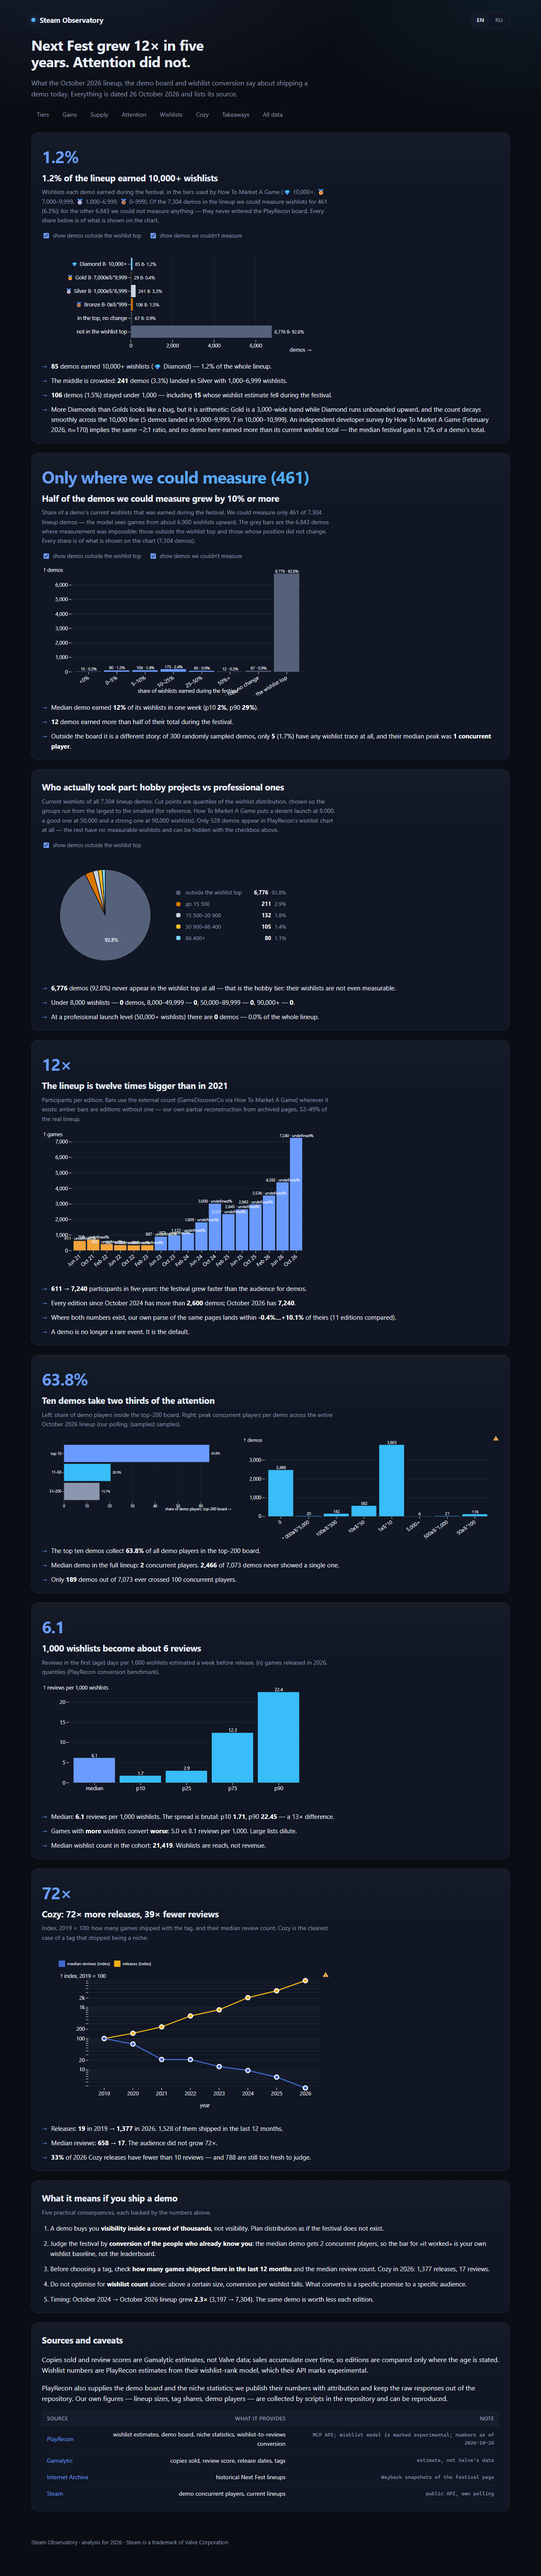
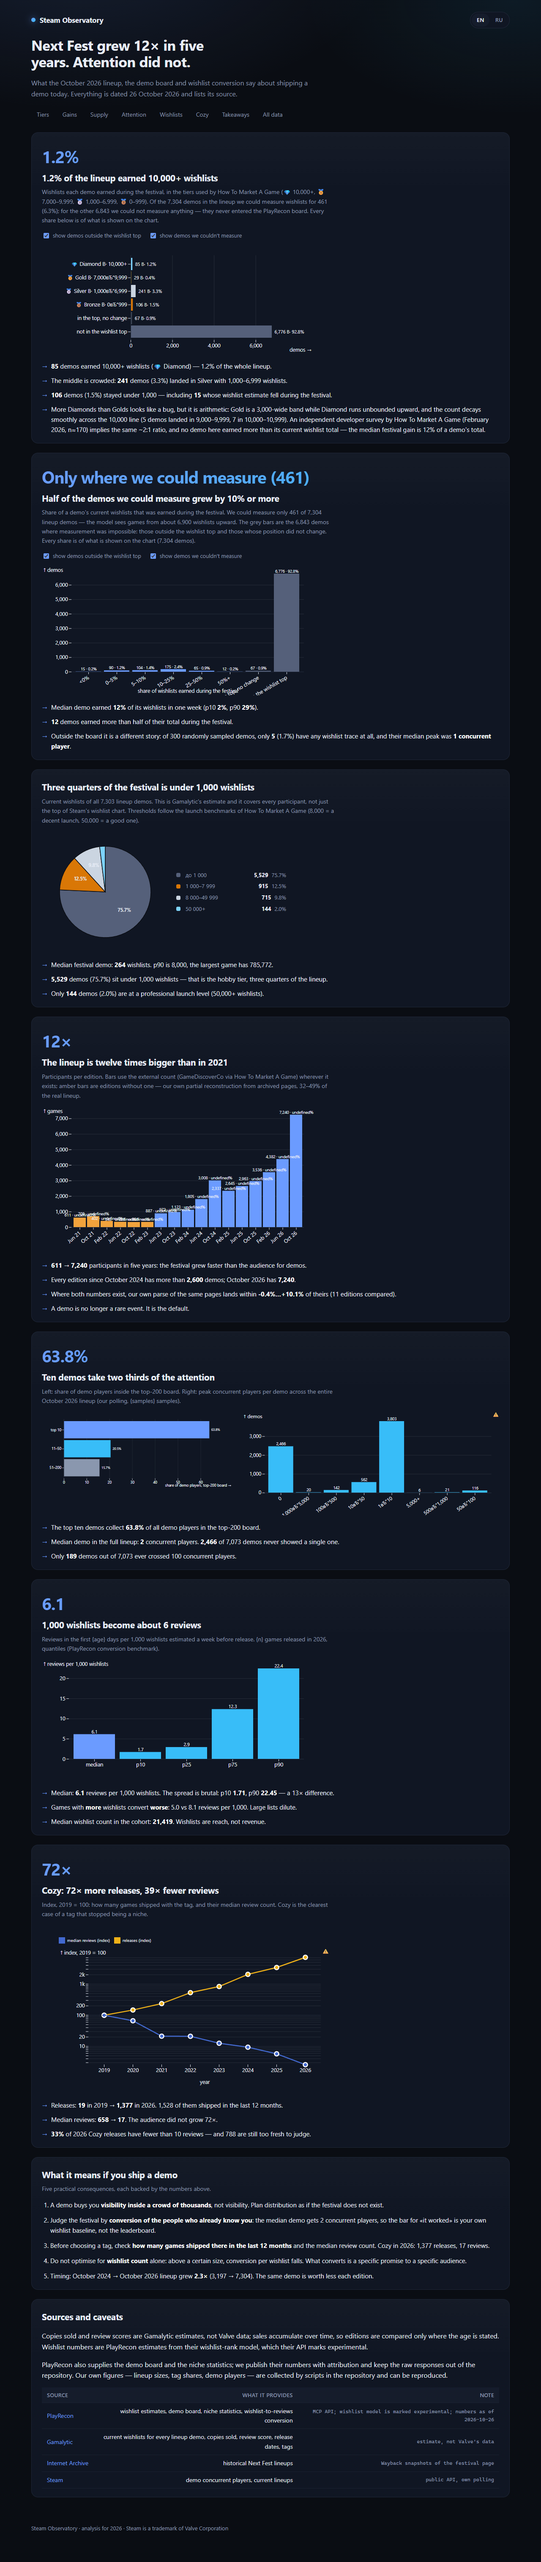
Пай-чарт на данных Gamalytic: весь состав фестиваля, четыре группы
- build_story_data: текущие вишлисты всех 7303 демо из Gamalytic, пороги бенчмарка запуска
- результат: 5529 до 1000 / 915 / 715 / 144 в 50k+, медиана 264, максимум 785772
- story: убрана галочка «вне топа» (больше нет категории без данных), новая подпись и выводы
- атрибуция: Gamalytic указан как источник текущих вишлистов
- validate_story: 0 падений, 0 ошибок в консоли

diff --git a/site/story-i18n.js b/site/story-i18n.js
@@ -31,17 +31,12 @@ export const S = {
     gains_b1: "Median demo earned <b>{median}%</b> of its wishlists in one week (p10 <b>{p10}%</b>, p90 <b>{p90}%</b>).",
     gains_b2: "<b>{over_half}</b> demos earned more than half of their total during the festival.",
     gains_b3: "Outside the board it is a different story: of {sampled} randomly sampled demos, only <b>{with_rank}</b> ({trace}%) have any wishlist trace at all, and their median peak was <b>{median} concurrent player</b>.",
-    wl_title: "Who actually took part: hobby projects vs professional ones",
+    wl_title: "Three quarters of the festival is under 1,000 wishlists",
     wl_hint:
-      "Current wishlists of all {total} lineup demos. Cut points are quantiles of the wishlist distribution, chosen so the groups run from the largest to the smallest (for reference, How To Market A Game puts a decent launch at 8,000, a good one at 50,000 and a strong one at 90,000 wishlists). Only {in_chart} demos appear in PlayRecon's wishlist chart at all — the rest have no measurable wishlists and can be hidden with the checkbox above.",
-    wl_no_rank: "outside the wishlist top",
-    wl_in_under8k: "🥉 in the top, under 8,000",
-    wl_in_8k_50k: "🥈 8,000–49,999",
-    wl_in_50k_90k: "🥇 50,000–89,999",
-    wl_in_90k_plus: "💎 90,000+",
-    wl_b1: "<b>{n}</b> demos ({share}%) never appear in the wishlist top at all — that is the hobby tier: their wishlists are not even measurable.",
-    wl_b2: "Under 8,000 wishlists — <b>{u8}</b> demos, 8,000–49,999 — <b>{mid}</b>, 50,000–89,999 — <b>{gold}</b>, 90,000+ — <b>{pro}</b>.",
-    wl_b3: "At a professional launch level (50,000+ wishlists) there are <b>{pro}</b> demos — {pro_share}% of the whole lineup.",
+      "Current wishlists of all {total} lineup demos. This is Gamalytic's estimate and it covers every participant, not just the top of Steam's wishlist chart. Thresholds follow the launch benchmarks of How To Market A Game (8,000 = a decent launch, 50,000 = a good one).",
+    wl_b1: "Median festival demo: <b>{median}</b> wishlists. p90 is {p90}, the largest game has {max}.",
+    wl_b2: "<b>{n}</b> demos ({share}%) sit under 1,000 wishlists — that is the hobby tier, three quarters of the lineup.",
+    wl_b3: "Only <b>{pro}</b> demos ({pro_share}%) are at a professional launch level (50,000+ wishlists).",
     wl_axis: "demos",
     tiers_kicker: "{share}%",
     tiers_b1: "<b>{diamond}</b> demos earned 10,000+ wishlists (💎 Diamond) — {diamond_share}% of the whole lineup.",
@@ -151,17 +146,12 @@ export const S = {
     gains_b1: "Медианное демо набрало за неделю <b>{median}%</b> своих вишлистов (p10 <b>{p10}%</b>, p90 <b>{p90}%</b>).",
     gains_b2: "<b>{over_half}</b> демо набрали за фестиваль больше половины своего итога.",
     gains_b3: "Вне борда картина другая: из {sampled} случайно отобранных демо вишлист-след есть только у <b>{with_rank}</b> ({trace}%), а медианный пик у них — <b>{median} одновременный игрок</b>.",
-    wl_title: "Кто вообще участвовал: любители против профессионалов",
+    wl_title: "Три четверти фестиваля — меньше 1 000 вишлистов",
     wl_hint:
-      "Текущие вишлисты всех {total} демо состава. Точки отсечения — квантили распределения, подобранные так, чтобы группы шли от большего к меньшему (для ориентира: How To Market A Game считает 8 000 вишлистов нормальным запуском, 50 000 — хорошим, 90 000 — сильным). В таблице вишлистов PlayRecon есть только {in_chart} демо — у остальных вишлисты не измеряются, и их можно скрыть галочкой выше.",
-    wl_no_rank: "вне топа вишлистов",
-    wl_in_under8k: "🥉 в топе, до 8 000",
-    wl_in_8k_50k: "🥈 8 000–49 999",
-    wl_in_50k_90k: "🥇 50 000–89 999",
-    wl_in_90k_plus: "💎 90 000+",
-    wl_b1: "<b>{n}</b> демо ({share}%) вообще не попадают в топ вишлистов — это и есть любительский уровень: их вишлисты даже не измеряются.",
-    wl_b2: "До 8 000 вишлистов — <b>{u8}</b> демо, 8 000–49 999 — <b>{mid}</b>, 50 000–89 999 — <b>{gold}</b>, 90 000+ — <b>{pro}</b>.",
-    wl_b3: "На профессиональном уровне запуска (50 000+ вишлистов) — <b>{pro}</b> демо, это {pro_share}% всего состава.",
+      "Текущие вишлисты всех {total} демо состава. Это оценка Gamalytic, и она покрывает всех участников, а не только верхушку топа вишлистов Steam. Пороги — бенчмарк запуска How To Market A Game (8 000 — нормальный запуск, 50 000 — хороший).",
+    wl_b1: "Медианное демо фестиваля: <b>{median}</b> вишлистов. p90 — {p90}, у самой крупной игры {max}.",
+    wl_b2: "<b>{n}</b> демо ({share}%) имеют меньше 1 000 вишлистов — это любительский уровень, три четверти состава.",
+    wl_b3: "На профессиональном уровне запуска (50 000+) — всего <b>{pro}</b> демо ({pro_share}%).",
     wl_axis: "демо",
     tiers_kicker: "{share}%",
     tiers_b1: "<b>{diamond}</b> демо набрали 10 000+ вишлистов (💎 Diamond) — это {diamond_share}% от всего состава.",

diff --git a/site/story.js b/site/story.js
@@ -481,11 +481,10 @@ function renderGains() {
 // --- 1c. РЎ РєР°РєРёРјРё РІРёС€Р»РёСЃС‚Р°РјРё РІС…РѕРґРёР»Рё Рё РІС‹С…РѕРґРёР»Рё -------------------------
 // цвета долей: серый — вне топа, дальше бронза/серебро/золото/бриллиант
 const WL_COLORS = {
-  no_rank: "#55607a",
-  in_b0: "#d97706",
-  in_b1: "#cbd5e1",
-  in_b2: "#fbbf24",
-  in_b3: "#7dd3fc",
+  b0: "#55607a",
+  b1: "#d97706",
+  b2: "#cbd5e1",
+  b3: "#7dd3fc",
 };
 
 function renderWl() {
@@ -493,8 +492,8 @@ function renderWl() {
   const data = b.wl_now;
   if (!data || !data.buckets) return;
   const total = data.total || data.buckets.reduce((sum, r) => sum + r.games, 0);
-  // «вне топа» можно скрыть той же галочкой, что и в графике тиров
-  const shown = data.buckets.filter((r) => r.key !== "no_rank" || showNoRank);
+  // Gamalytic видит все игры состава, поэтому скрывать тут нечего
+  const shown = data.buckets;
   const shownTotal = shown.reduce((sum, r) => sum + r.games, 0) || 1;
   const rows = shown.map((r) => ({
     key: r.key,
@@ -563,16 +562,15 @@ function renderWl() {
       .join(" · ");
   }
   const pick = (key) => rows.find((r) => r.key === key) || { games: 0, share: 0 };
-  const pro = pick("in_50k_90k").games + pick("in_90k_plus").games;
+  const pro = pick("b3").games;
   el("#take-wl").innerHTML = [
-    t("wl_b1", { n: fmt(pick("no_rank").games), share: pick("no_rank").share.toFixed(1) }),
-    t("wl_b2", {
-      u8: fmt(pick("in_under8k").games),
-      mid: fmt(pick("in_8k_50k").games),
-      gold: fmt(pick("in_50k_90k").games),
-      pro: fmt(pick("in_90k_plus").games),
+    t("wl_b1", {
+      median: fmt(data.median),
+      p90: fmt(data.p90),
+      max: fmt(data.max),
     }),
-    t("wl_b3", { pro: fmt(pro), pro_share: ((100 * pro) / total).toFixed(1) }),
+    t("wl_b2", { n: fmt(pick("b0").games), share: pick("b0").share.toFixed(1) }),
+    t("wl_b3", { pro: fmt(pro), pro_share: ((100 * pro) / shownTotal).toFixed(1) }),
   ]
     .map((x) => `<li>${x}</li>`)
     .join("");

diff --git a/site/story.html b/site/story.html
@@ -57,9 +57,6 @@
   <section id="wl">
     <h2 data-i18n="wl_title"></h2>
     <p class="hint" id="hint-wl"></p>
-    <div class="toggles" id="wl-toggles">
-      <label><input type="checkbox" id="show-no-rank-3" data-toggle="no-rank" checked> <span data-i18n="toggle_no_rank"></span></label>
-    </div>
     <div id="chart-wl" class="chart"><div class="skel skel-chart-sm"></div></div>
     <ul class="takeaways" id="take-wl"></ul>
   </section>

diff --git a/scripts/build_story_data.py b/scripts/build_story_data.py
@@ -236,57 +236,42 @@ if tiers_block is not None:
 # 🥉 5 000, 🥈 8 000, 🥇 50 000, 💎 90 000 вишлистов к запуску).
 # Первый бакет — те, кого вообще нет в топе вишлистов: их уровень неизвестен,
 # но именно они и есть любительская часть фестиваля.
+# Текущие вишлисты по всему составу — из Gamalytic (публичный эндпоинт, все игры).
+# Пороги — бенчмарк запуска How To Market A Game (1 000 / 8 000 / 50 000).
+# Последние две группы объединены в «50 000+», чтобы размеры шли по убыванию.
 wl_now = None
-try:
-    spec = importlib.util.spec_from_file_location(
-        "prwg", ROOT / "scripts" / "playrecon_wishlist_gain.py"
-    )
-    mod = importlib.util.module_from_spec(spec)
-    spec.loader.exec_module(mod)
-    board_rows = [r for r in mod.load_rows() if r.get("wl_est")]
+gam_file = CACHE / "gamalytic_wishlists.jsonl"
+if gam_file.exists():
+    gvals: list[int] = []
+    for line in gam_file.read_text(encoding="utf-8").splitlines():
+        if not line.strip():
+            continue
+        try:
+            rec = json.loads(line)
+        except json.JSONDecodeError:
+            continue
+        if rec.get("wishlists"):
+            gvals.append(int(rec["wishlists"]))
+    gvals.sort()
 
-    ests = sorted(r["wl_est"] for r in board_rows)
-    n_est = len(ests)
+    def gcnt(lo: int, hi: int | None) -> int:
+        return sum(1 for v in gvals if v >= lo and (hi is None or v < hi))
 
-    def cut(q: float) -> int:
-        return ests[min(n_est - 1, int(q * n_est))]
-
-    # границы берём как квантили, чтобы корзины шли строго от большего к меньшему
-    bounds = [cut(0.40), cut(0.65), cut(0.85)]
-
-    def _bucket(est: int) -> int:
-        for i, edge in enumerate(bounds):
-            if est < edge:
-                return i
-        return len(bounds)
-
-    def num(value: int) -> str:
-        return f"{value:,}".replace(",", " ")
-
-    bucket_labels = [
-        f"до {num(bounds[0])}",
-        f"{num(bounds[0])}–{num(bounds[1])}",
-        f"{num(bounds[1])}–{num(bounds[2])}",
-        f"{num(bounds[2])}+",
-    ]
-    counts = [0] * (len(bounds) + 1)
-    for est in ests:
-        counts[_bucket(est)] += 1
-    lineup_n = fests_final.get("oct2026") or 0
     wl_now = {
-        "buckets": [{"key": "no_rank", "games": max(0, lineup_n - n_est)}]
-        + [
-            {"key": f"in_b{i}", "label": bucket_labels[i], "games": counts[i]}
-            for i in range(len(bounds) + 1)
+        "buckets": [
+            {"key": "b0", "label": "до 1 000", "games": gcnt(0, 1_000)},
+            {"key": "b1", "label": "1 000–7 999", "games": gcnt(1_000, 8_000)},
+            {"key": "b2", "label": "8 000–49 999", "games": gcnt(8_000, 50_000)},
+            {"key": "b3", "label": "50 000+", "games": gcnt(50_000, None)},
         ],
-        "total": lineup_n,
-        "in_chart": n_est,
-        "bounds": bounds,
+        "total": len(gvals),
+        "median": int(gvals[len(gvals) // 2]) if gvals else None,
+        "p90": gvals[int(0.9 * (len(gvals) - 1))] if gvals else None,
+        "max": gvals[-1] if gvals else None,
+        "source": "Gamalytic",
     }
     if tiers_block is not None:
         tiers_block["wl_now"] = wl_now
-except Exception as exc:  # noqa: BLE001
-    print("ВНИМАНИЕ: не удалось посчитать текущие вишлисты:", exc)
 
 # результат случайной выборки вне борда (scripts/aggregate_outside_sample.py)
 outside_report = CACHE / "outside_sample_report.json"
@@ -379,7 +364,7 @@ publish = {
         {"name": "PlayRecon", "what": "wishlist estimates, demo board, niche statistics, "
                                               "wishlist-to-reviews conversion", "url": "https://app.playrecon.com",
          "note": "MCP API; wishlist model is marked experimental; numbers as of 2026-10-26"},
-        {"name": "Gamalytic", "what": "copies sold, review score, release dates, tags",
+        {"name": "Gamalytic", "what": "current wishlists for every lineup demo, copies sold, review score, release dates, tags",
          "url": "https://gamalytic.com", "note": "estimate, not Valve's data"},
         {"name": "Internet Archive", "what": "historical Next Fest lineups",
          "url": "https://web.archive.org", "note": "Wayback snapshots of the festival page"},

diff --git a/scripts/validate_story.py b/scripts/validate_story.py
@@ -118,15 +118,15 @@ with sync_playwright() as pw:
     check("в графике долей шесть бакетов плюс две серые полосы", gains_bars >= 8,
           f"полос={gains_bars}")
     wl_slices = page.eval_on_selector_all("#chart-wl svg path", "els => els.length")
-    check("в пай-чарте пять долей", wl_slices >= 5, f"долей={wl_slices}")
+    check("в пай-чарте четыре доли по порогам запуска", wl_slices >= 4, f"долей={wl_slices}")
     wl_texts = page.eval_on_selector_all("#chart-wl svg text", "els => els.map(e => e.textContent)")
     check("подписи долей содержат проценты",
           any("%" in x for x in wl_texts), str(wl_texts[:4]))
     wl_hint = page.text_content("#hint-wl") or ""
     check("в подписи пай-чарта есть пороги и число участников",
-          "8,000" in wl_hint and "7,304" in wl_hint, wl_hint[:70])
+          "8,000" in wl_hint and "7,303" in wl_hint, wl_hint[:70])
     legend_rows = page.eval_on_selector_all("#chart-wl .pie-row", "els => els.length")
-    check("у пай-чарта своя легенда из пяти строк", legend_rows >= 5, f"строк={legend_rows}")
+    check("у пай-чарта своя легенда на каждую группу", legend_rows >= 4, f"строк={legend_rows}")
 
     gains_labels = page.eval_on_selector_all(
         "#chart-gains svg text", "els => els.map(e => e.textContent)")
